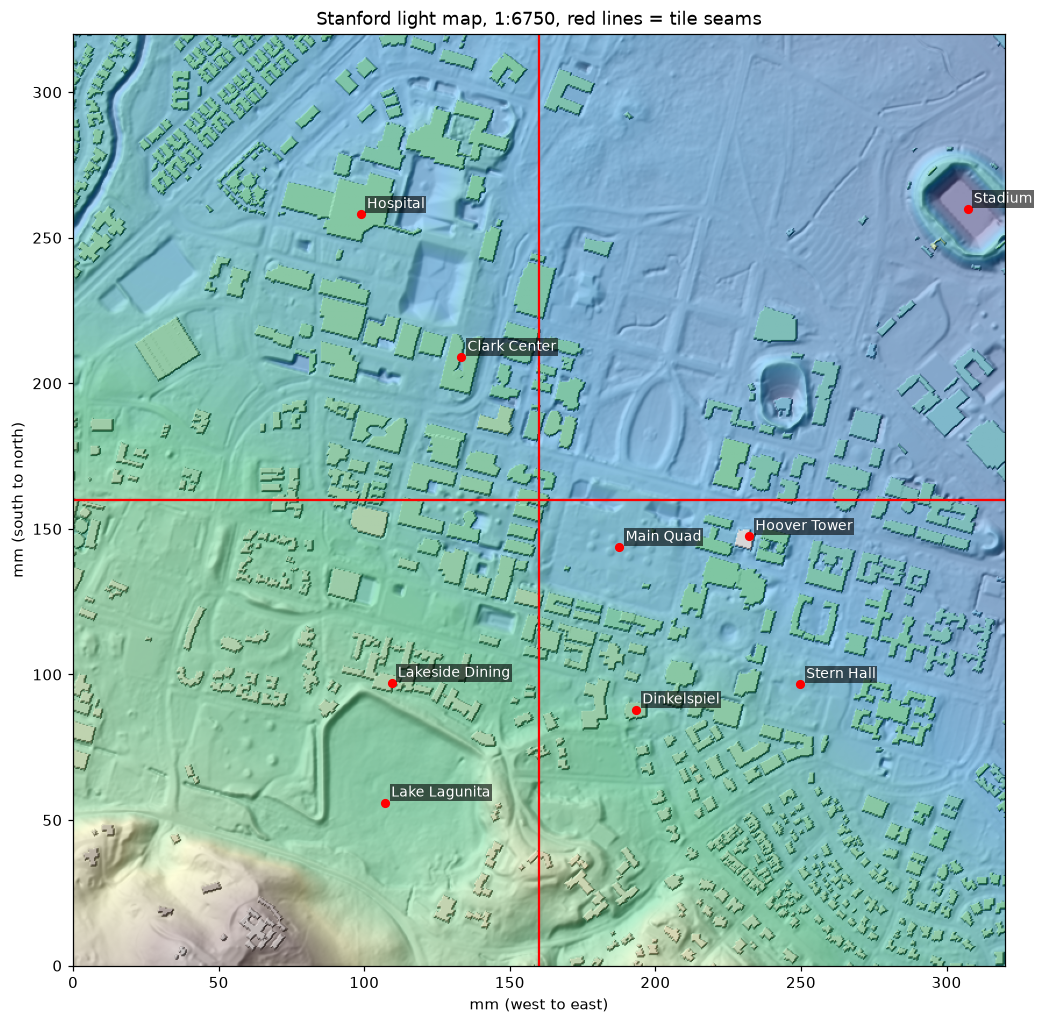
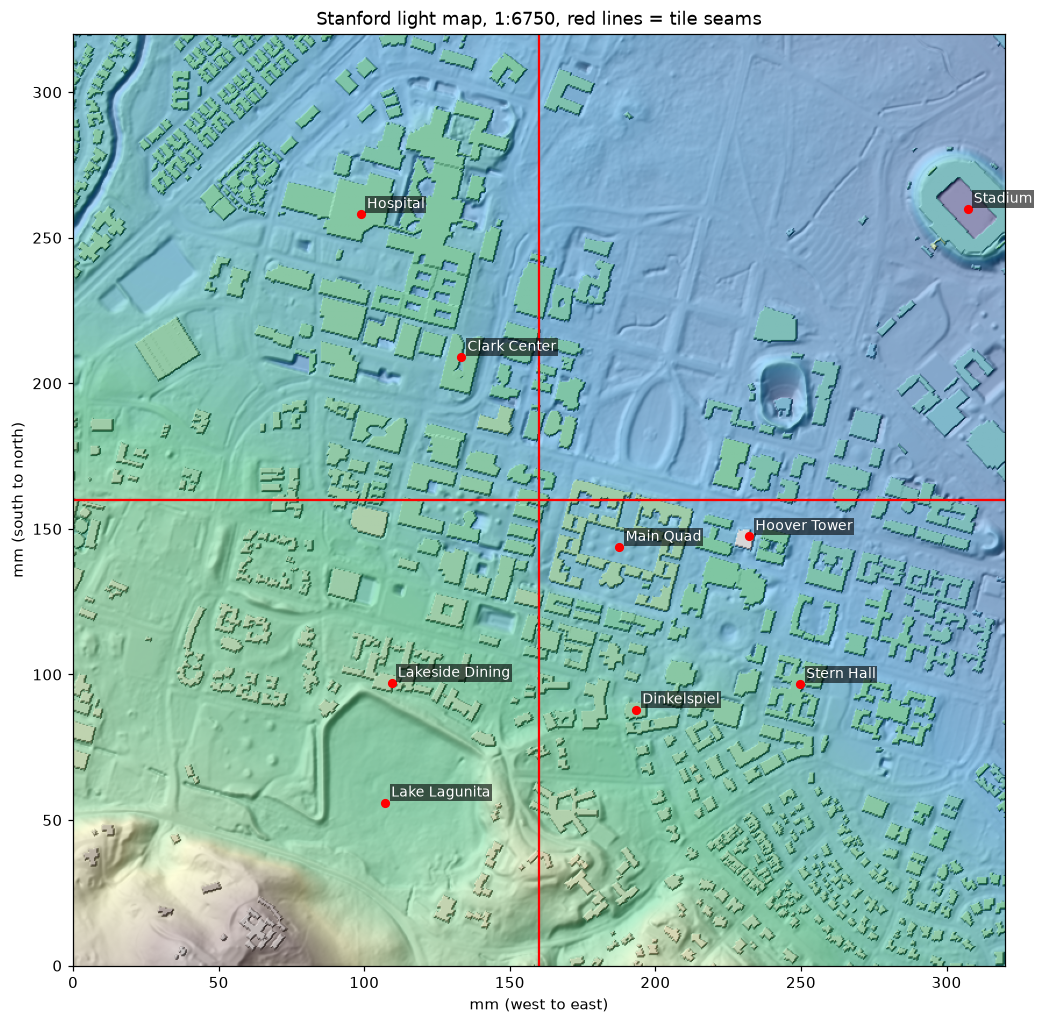
Fix missing multi-part buildings; add --sample test piece
The Overpass query used 'out geom tags', which drops relation members,
so 27 multipolygon buildings (Main Quad, Stern Hall, the hospital) were
silently skipped. Also ignore height=0 tags and add a --sample option
that cuts a small test print out of the full model.

diff --git a/build_terrain.py b/build_terrain.py
@@ -8,10 +8,14 @@ pitch. The walls do two jobs: they support the skin while printing (no
 supports needed) and they stop one LED's light leaking into the next cell.
 
 Run:  .venv/bin/python build_terrain.py
+      .venv/bin/python build_terrain.py --sample 180 110 60
+      (a 60 mm test piece whose south-west corner is 180 mm east and
+       110 mm north of the map's south-west corner)
 """
 
 import json
 import math
+import sys
 from pathlib import Path
 
 import numpy as np
@@ -79,14 +83,14 @@ def fetch_dem(bbox):
 
 
 def fetch_buildings(bbox):
-    path = CACHE / f"buildings_{AREA}.json"
+    path = CACHE / f"buildings_v2_{AREA}.json"
     if not path.exists():
         to_ll = Transformer.from_crs("EPSG:26910", "EPSG:4326", always_xy=True)
         w, s = to_ll.transform(bbox[0], bbox[1])
         e, n = to_ll.transform(bbox[2], bbox[3])
         box = f"({s - 0.001:.5f},{w - 0.001:.5f},{n + 0.001:.5f},{e + 0.001:.5f})"
         q = (f'[out:json][timeout:120];(way["building"]{box};'
-             f'relation["building"]{box};);out geom tags;')
+             f'relation["building"]{box};);out geom;')
         r = requests.post("https://overpass-api.de/api/interpreter",
                           data={"data": q}, headers=UA, timeout=180)
         r.raise_for_status()
@@ -98,7 +102,9 @@ def fetch_buildings(bbox):
 def building_height_m(tags):
     for key, mult in (("height", 1.0), ("building:levels", 3.5)):
         try:
-            return max(MIN_BUILDING_M, float(str(tags[key]).split()[0]) * mult)
+            h = float(str(tags[key]).split()[0]) * mult
+            if h > 0:   # some buildings are tagged height=0 (e.g. the Stadium)
+                return max(MIN_BUILDING_M, h)
         except (KeyError, ValueError, IndexError):
             pass
     return DEFAULT_BUILDING_M
@@ -128,9 +134,12 @@ def height_grid(bbox):
         bid = len(heights)
         if el["type"] == "relation":
             parts = [m for m in el.get("members", []) if len(m.get("geometry", [])) >= 3]
-            for role, fill in (("outer", bid), ("inner", 0)):
+            if not parts:
+                continue
+            # anything not marked "inner" (a courtyard hole) counts as building
+            for inner, fill in ((False, bid), (True, 0)):
                 for m in parts:
-                    if m.get("role") == role:
+                    if (m.get("role") == "inner") == inner:
                         draw.polygon(ring(m["geometry"]), fill=fill)
         elif len(el.get("geometry", [])) >= 3:
             draw.polygon(ring(el["geometry"]), fill=bid)
@@ -228,6 +237,10 @@ def main():
     top = CAVITY_MM + SKIN_MM + (elev - floor_m) * Z_EXAG * 1000.0 / SCALE
     bottom = underside(top)
 
+    if len(sys.argv) == 5 and sys.argv[1] == "--sample":
+        write_sample(top, bottom, *(float(a) for a in sys.argv[2:5]))
+        return
+
     cells = round(TILE_MM / GRID_MM)             # 400
     w = wall_mask(cells)
     walls = w[:, None] | w[None, :]
@@ -273,6 +286,27 @@ def main():
     for name, nf, zmax, vol in report:
         # 1.24 g/cm3 is PLA density
         print(f"{name}: {nf} triangles, {zmax:.1f} mm tall, {vol:.0f} cm3 = {vol * 1.24:.0f} g PLA")
+
+
+def write_sample(top, bottom, x_mm, y_mm, size_mm):
+    """Cut a small square out of the full model as a quick test print."""
+    n = round(size_mm / GRID_MM)
+    c0 = round(x_mm / GRID_MM)
+    r0 = round((MODEL_MM - y_mm - size_mm) / GRID_MM)   # row 0 is north
+    sl = np.s_[r0: r0 + n + 1, c0: c0 + n + 1]
+    # drop the piece so its lowest ground sits just above the LED gap;
+    # otherwise the sample prints millimetres of wall it does not need
+    drop = top[sl].min() - (CAVITY_MM + SKIN_MM)
+    t = top[sl] - drop
+    w = wall_mask(n)
+    b = np.where(w[:, None] | w[None, :], 0.0, bottom[sl] - drop)
+    verts, faces = solid_between(t, b)
+    assert check_watertight(faces), "sample is not watertight"
+    assert (t - b).min() > 0.5, "skin collapsed somewhere"
+    write_stl(OUT / "sample.stl", verts, faces)
+    vol = volume_cm3(verts, faces)
+    print(f"sample.stl: {size_mm:.0f} mm square, {t.max():.1f} mm tall, "
+          f"{vol:.1f} cm3 = {vol * 1.24:.0f} g PLA")
 
 
 def latlon_to_led(lat, lon, meta):
